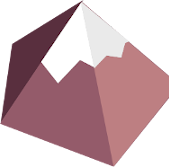
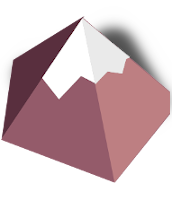
Tiles and resources UI updated

diff --git a/ts/scenes/Boot.ts b/ts/scenes/Boot.ts
@@ -19,14 +19,15 @@ module CIV {
             this.load.image('land', 'assets/hex_land.png');
             this.load.image('land2', 'assets/hex_land2.png');
             this.load.image('land3', 'assets/hex_land3.png');
+            this.load.image('land4', 'assets/hex_land4.png');
             this.load.image('water', 'assets/hex_water.png');
             this.load.image('beach', 'assets/hex_beach.png');
             this.load.image('deepwater', 'assets/hex_deepwater.png');
-            this.load.image('forest', 'assets/hex_forest.png');
 
             this.load.image('tree', 'assets/tree.png');
             this.load.image('tree2', 'assets/tree2.png');
             this.load.image('mountain', 'assets/mountain.png');
+            this.load.image('mountain2', 'assets/mountain2.png');
             this.load.image('coast', 'assets/coast.png');
 
             this.load.image('city', 'assets/city.png');
@@ -36,11 +37,15 @@ module CIV {
             this.load.image('settler', 'assets/units/settler.png');
             this.load.image('settler_create', 'assets/units/settler_create.png');
 
-            this.load.image('food', 'assets/resources/food.png');
-            this.load.image('gold', 'assets/resources/gold.png');
-            this.load.image('research', 'assets/resources/research.png');
+            // UI
+            this.load.image('foodIcon', 'assets/hud/food.png');
+            this.load.image('goldIcon', 'assets/hud/gold.png');
+            this.load.image('researchIcon', 'assets/hud/research.png');
+
             // Special resources
-            this.load.image('hex_wheat', 'assets/resources/hex_wheat.png');
+            this.load.image('wheat', 'assets/resources/wheat.png');
+            this.load.image('iron', 'assets/resources/iron.png');
+            this.load.image('gold', 'assets/resources/gold.png');
 
             // Units
             this.load.json("units", "assets/jsons/units.json");

diff --git a/ts/model/map/WorldMap.ts b/ts/model/map/WorldMap.ts
@@ -171,12 +171,13 @@ module CIV {
             this.doForAllTiles(t => {
                 let img;
                 let trees = ['tree', 'tree2'];
+                let mountain = ['mountain', 'mountain2'];
                 if (t.tileType === TileType.Forest) {
                     img = Game.INSTANCE.add.image(t.worldPosition.x, t.worldPosition.y, chance.pickone(trees));
                     img.setOrigin(0.5, 0.65)
                 }
                 if (t.tileType === TileType.Mountain) {
-                    img = Game.INSTANCE.add.image(t.worldPosition.x, t.worldPosition.y, 'mountain');
+                    img = Game.INSTANCE.add.image(t.worldPosition.x, t.worldPosition.y, chance.pickone(mountain));
                 }
 
                 t.assets.push(img);
@@ -200,7 +201,11 @@ module CIV {
 
                 let tiles = this.getEvenlyLocatedTiles(numberOfResources, Constants.MAP.SIZE * 2, t => res.canBeFoundOn.indexOf(t.tileType) !== -1);
                 for (let t of tiles) {
-                    t.setTexture(res.key);
+
+                    let img = Game.INSTANCE.add.image(t.worldPosition.x, t.worldPosition.y, res.key);
+                    t.assets.push(img);
+                    img.scale = ratio;
+                    img.depth = Constants.LAYER.TREES;
 
                     // Add ressources on this tile
                     for (let key in res.bonus) {

diff --git a/ts/model/Constants.ts b/ts/model/Constants.ts
@@ -13,13 +13,10 @@ abstract class Constants {
 
     public static MAP = {
         /** The map size */
-        SIZE: 15, // 15 will be the final size
+        SIZE: 10, // 15 will be the final size
 
         /** Noise parameters for water */
-        DEEPWATER: 65,
-
-        BEACH: 80,
-
+        DEEPWATER: 50,
         WATER: {
             NOISE: {
                 min: 0,
@@ -27,8 +24,11 @@ abstract class Constants {
                 octaves: 1,
                 frequency: 0.06
             },
-            THRESHOLD: 75 // Less is les water
+            THRESHOLD: 70 // Less is les water
         },
+
+        BEACH: 80,
+
         /** Noise parameters for forest */
         FOREST: {
             NOISE: {

diff --git a/ts/scenes/GameUI.ts b/ts/scenes/GameUI.ts
@@ -43,19 +43,19 @@ module CIV {
             let gold = this.make.image({
                 x: 75 * ratio,
                 y: 75 * ratio,
-                key: 'gold',
+                key: 'goldIcon',
                 scale: ratio
             });
             let food = this.make.image({
                 x: gold.x,
                 y: gold.y + gold.displayHeight,
-                key: 'food',
+                key: 'foodIcon',
                 scale: ratio
             });
             let science = this.make.image({
                 x: food.x,
                 y: food.y + food.displayHeight,
-                key: 'research',
+                key: 'researchIcon',
                 scale: ratio
             });
 
